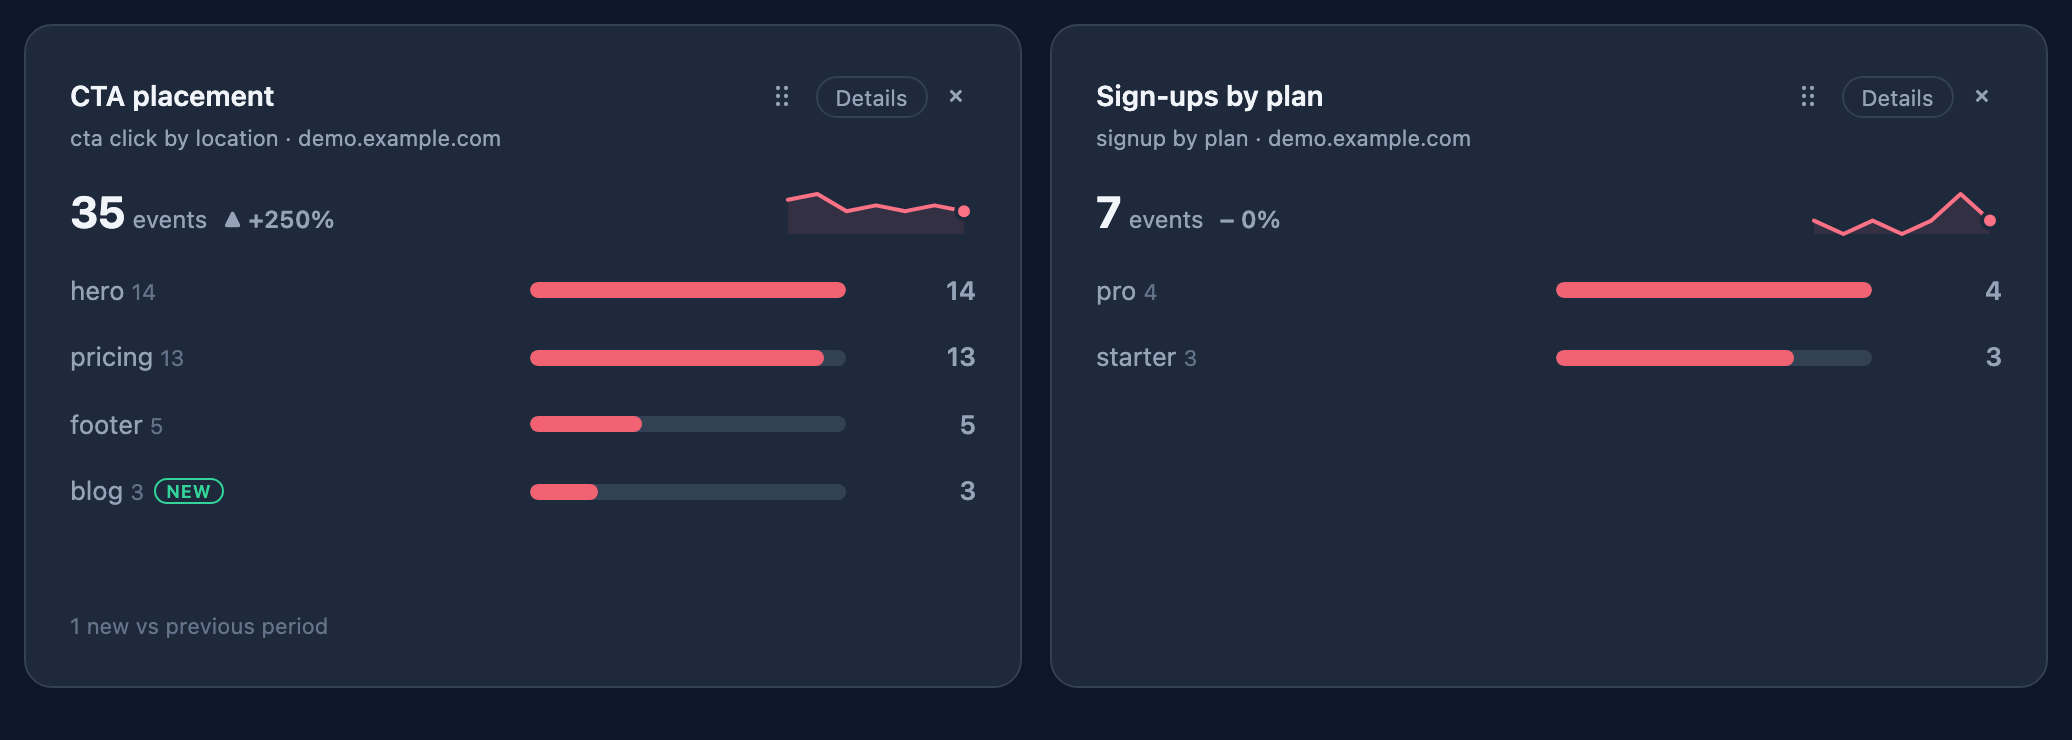
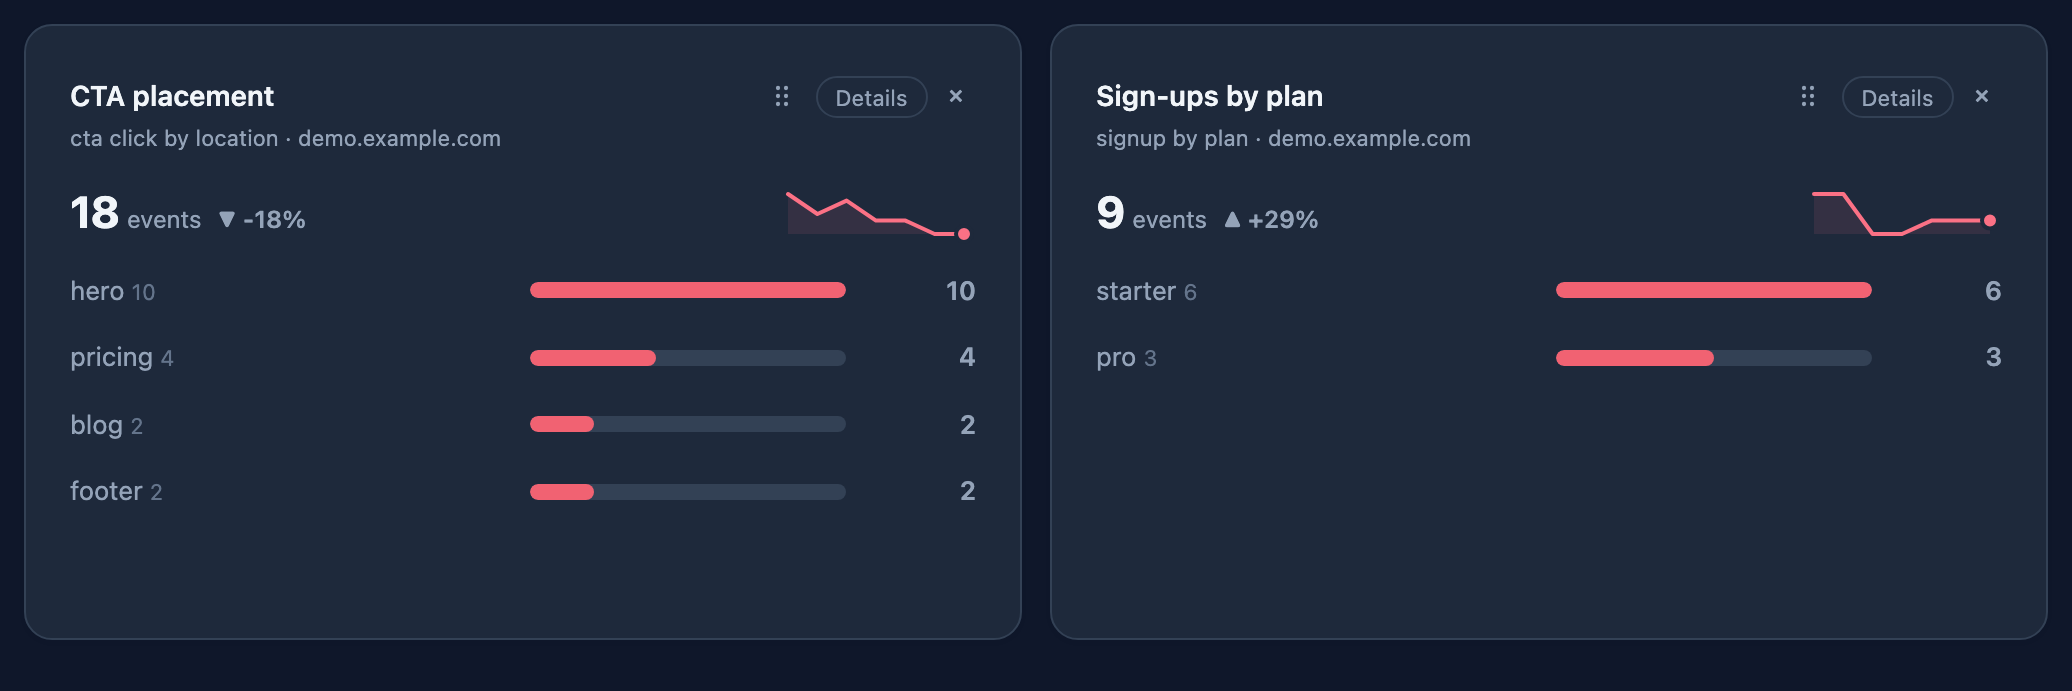
chore(demo): a rising trend in the demo data, images regenerated
The README hero showed pageviews and visitors down 15 %: today is only
partly over, and the noise per day (±20 %) outweighed the growth
(+40 % over 30 days). Growth is now +90 % with ±10 % noise, so the last
7 days beat the 7 before. All README images and the social preview are
regenerated from the same data.

diff --git a/scripts/seed-demo.php b/scripts/seed-demo.php
@@ -181,8 +181,10 @@ for ($daysAgo = 29; $daysAgo >= 0; $daysAgo--) {
     // Traffic grows over time + weekly pattern (weekends lower)
     $dayOfWeek = (int) date('w', strtotime("-{$daysAgo} days"));
     $weekendMult = ($dayOfWeek === 0 || $dayOfWeek === 6) ? 0.5 : 1.0;
-    $growthMult = 1 + ((30 - $daysAgo) / 30) * 0.4; // +40% over period
-    $pageviewsToday = (int) (250 * $weekendMult * $growthMult * (0.8 + (mt_rand(0, 40) / 100)));
+    // +90% over the period with modest noise, so the last 7 days beat the 7 before
+    // even though today has only just begun (README images show the 7-day trend)
+    $growthMult = 1 + ((30 - $daysAgo) / 30) * 0.9;
+    $pageviewsToday = (int) (220 * $weekendMult * $growthMult * (0.9 + (mt_rand(0, 20) / 100)));
 
     // About two pages per visit, never after now
     $visitorsToday = (int) ($pageviewsToday / 2);
